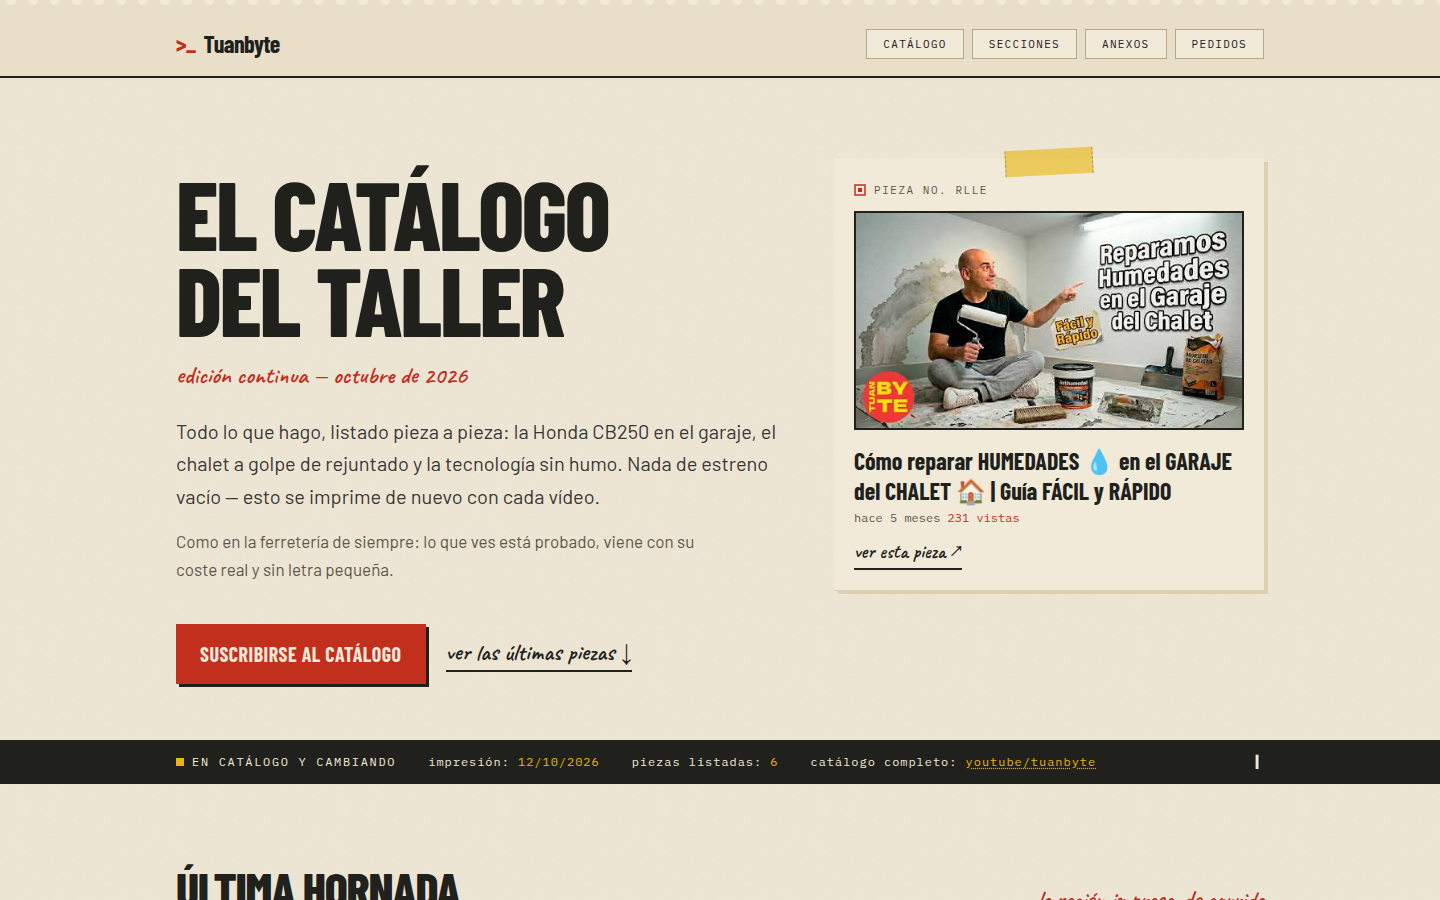
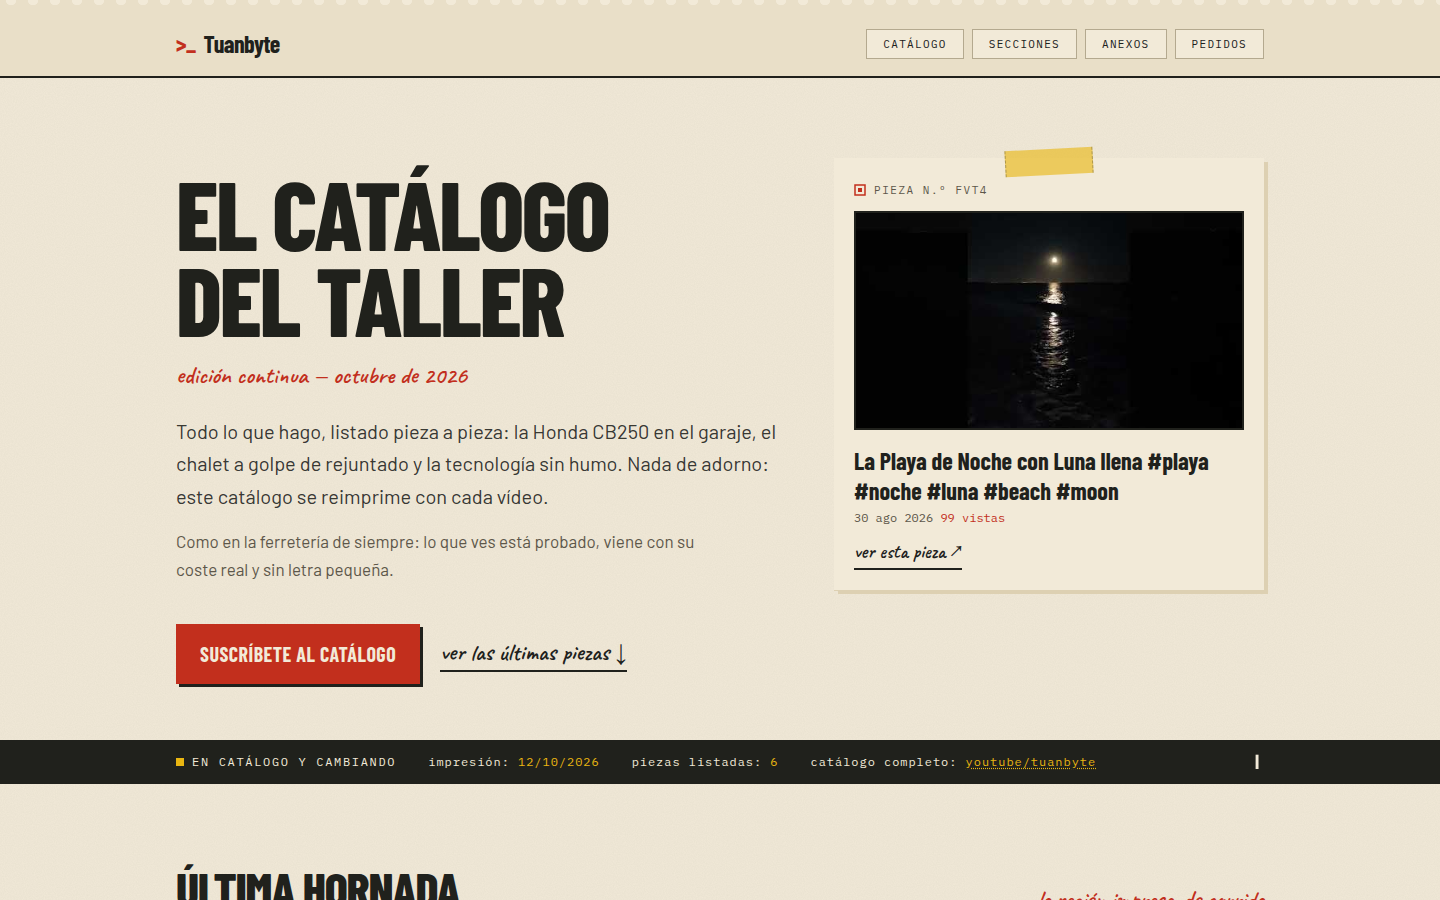
Español de España en el copy (suscríbete, n.º, vídeos con solera, pedidos y contacto) y Shorts fuera del catálogo (scrape primero, filtro de hashtags, fallback limpio)

diff --git a/src/lib/videos.ts b/src/lib/videos.ts
@@ -57,26 +57,31 @@ async function fromFeed(): Promise<Video[] | null> {
       const m = block.match(new RegExp(`<${tag}[^>]*>([\\s\\S]*?)</${tag}>`));
       return m ? m[1] : "";
     };
-    return entries.map((e) => {
-      const id = fields(e, "yt:videoId");
-      const title = fields(e, "title");
-      const published = fields(e, "published");
-      const viewsRaw = e.match(/media:statistics\s+views="(\d+)"/);
-      let dateText = "";
-      if (published) {
-        try {
-          dateText = dateFmt.format(new Date(published));
-        } catch {
-          dateText = "";
+    return entries
+      .map((e) => {
+        const id = fields(e, "yt:videoId");
+        const title = fields(e, "title");
+        const published = fields(e, "published");
+        const viewsRaw = e.match(/media:statistics\s+views="(\d+)"/);
+        let dateText = "";
+        if (published) {
+          try {
+            dateText = dateFmt.format(new Date(published));
+          } catch {
+            dateText = "";
+          }
         }
-      }
-      return asVideo(
-        id,
-        title,
-        dateText,
-        viewsRaw ? Number(viewsRaw[1]) : null,
-      );
-    });
+        return asVideo(
+          id,
+          title,
+          dateText,
+          viewsRaw ? Number(viewsRaw[1]) : null,
+        );
+      })
+      .filter((v) => {
+        const hashtags = (v.title.match(/#\w+/g) ?? []).length;
+        return hashtags < 3;
+      });
   } catch {
     return null;
   }
@@ -166,11 +171,11 @@ function fromFallback(): Video[] {
 }
 
 export async function getVideos(limit = 6): Promise<Video[]> {
-  const viaFeed = await fromFeed();
-  if (viaFeed?.length) return viaFeed.slice(0, limit);
-  console.warn("[videos] feed no disponible; probando scrape del canal");
   const viaScrape = await fromChannelPage();
   if (viaScrape?.length) return viaScrape.slice(0, limit);
-  console.warn("[videos] scrape no disponible; usando fallback local");
+  console.warn("[videos] scrape no disponible; probando el feed");
+  const viaFeed = await fromFeed();
+  if (viaFeed?.length) return viaFeed.slice(0, limit);
+  console.warn("[videos] feed no disponible; usando fallback local");
   return fromFallback().slice(0, limit);
 }

diff --git a/PRODUCT.md b/PRODUCT.md
@@ -54,10 +54,14 @@ relevo Eclipse scrape + fallback JSON en repo).
 
 ## Brand Commitments
 
-- Nombre: **Tuanbyte** (una palabra, minúscula de marca con la "T" y "B" mayúsculas
-  informáticas según contexto).
+- Nombre: **Tuanbyte** (una palabra; la "T" y la "B" en ficha de marca, como en
+  el logotipo).
 - La tierra fértil del canal: manualidad técnica sin humo, honestidad de
   costes, público español.
+- **Registro lingüístico: español de España.** Segunda persona del singular con
+  imperativos directos ("suscríbete", "échale un ojo"), léxico peninsular
+  ("vídeos", "móvil", "ordenador", "coche"), sin giros de doblaje ni de
+  traducción.
 - Guardadas contexto board (visual decisions): se documentan en `DESIGN.md` en
   la fase de dirección de arte, no aquí.
 
